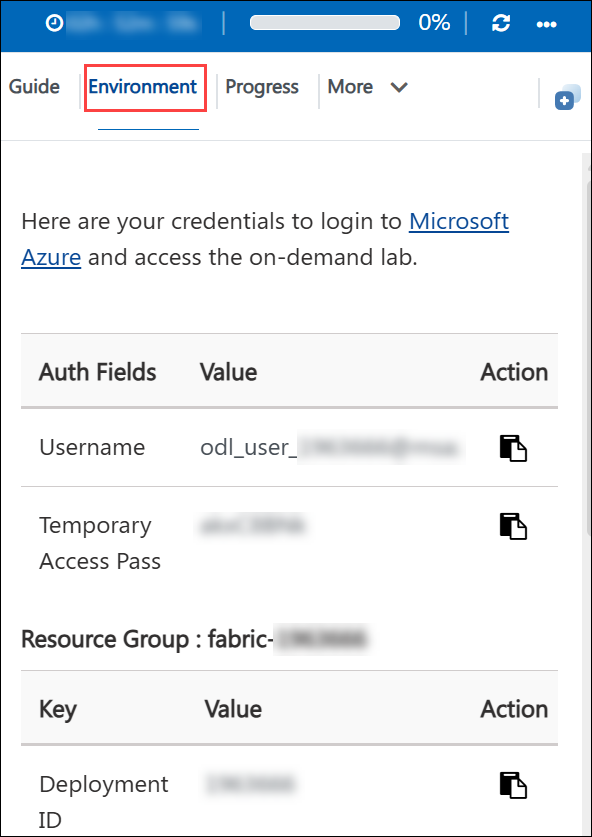
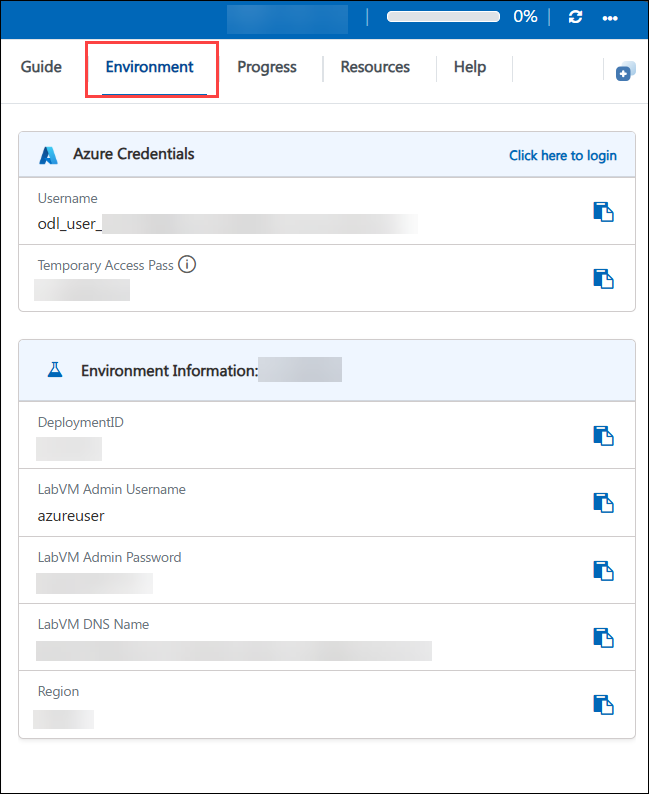
added the getting started page

diff --git a/Instructions/Labs/DP700-Gettingstarted/combined_gettingstarted_page.md b/Instructions/Labs/DP700-Gettingstarted/combined_gettingstarted_page.md
@@ -1,0 +1,105 @@
+# DP-700: Microsoft-Fabric-Data-Engineer Workshop
+
+Welcome to your DP-700: Microsoft-Fabric-Data-Engineer Workshop! We've prepared a seamless environment for you to explore and learn Azure Services. Let's begin by making the most of this experience.
+
+### Overall Estimated Duration: 150 Minutes
+
+In this hands-on lab, you'll gain practical experience working with Microsoft Fabric to analyze, process, and visualize data across various services. You will learn how to create a Fabric workspace, ingest and transform data using pipelines and Dataflows Gen2, and analyze it with Apache Spark. You'll also explore real-time data processing by creating Eventstreams and interacting with eventhouse for real-time insights. By the end of this lab, you'll be equipped with the skills to build end-to-end data workflows and real-time analytics solutions in Microsoft Fabric.
+
+## Objectives
+
+By the end of this lab, you will be able to create a Microsoft Fabric workspace, ingest and transform data using pipelines and Dataflows Gen2, analyze data with Apache Spark, and implement real-time analytics using Eventstreams and eventhouse.
+
+1. **Analyze data with Apache Spark in Fabric**: You will learn how to use Apache Spark within Microsoft Fabric to explore and analyze large datasets. This task will guide you through creating Spark notebooks, running distributed data processing tasks, and performing data transformations to gain meaningful insights.
+
+1. **Ingest data with a pipeline in Microsoft Fabric**: You will learn how to build data pipelines to ingest data from external sources into a lakehouse in Microsoft Fabric. This includes using Apache Spark to apply custom transformations before loading the data for analysis.
+
+1. **Create and use Dataflows (Gen2) in Microsoft Fabric**: You will learn how to create and configure Dataflows (Gen2) to connect to data sources and perform transformations using Power Query Online. This task introduces the core features of Dataflows and demonstrates how they can be used in pipelines or Power BI datasets.
+
+## Pre-requisites
+
+- Basic familiarity with Apache Spark and notebooks (e.g., using PySpark)
+- Understanding of ETL/ELT processes and data transformation concepts
+- Understanding of Kusto Query Language (KQL) and basic SQL for querying event data
+
+## Architecture
+
+In this hands-on lab, the architecture flow includes several essential components.
+
+1. **Analyze data with Apache Spark in Fabric**: Learning how to use Apache Spark within Microsoft Fabric to explore and analyze large-scale datasets. This includes creating notebooks, executing distributed data operations, and performing transformations to uncover insights.
+
+1. **Ingest data with a pipeline in Microsoft Fabric**: Building and configuring data pipelines to ingest data from external sources into a Fabric lakehouse. This process includes applying transformations using Apache Spark and automating data loading for analysis.
+
+1. **Create and use Dataflows (Gen2) in Microsoft Fabric**: Understanding how to use Power Query Online to build Dataflows (Gen2), which connect to data sources, perform transformations, and feed downstream components like pipelines or Power BI reports.pipelines or Power BI datasets.
+
+## Architecture Diagram
+
+ ![](../Images/dp900m1arc.png)
+
+## Explanation of Components
+
+1. **Apache Spark:** Apache Spark is the core, open-source, distributed computing engine powering data engineering and data science workloads, enabling users to analyze and process data at scale within a Lakehouse environment. 
+
+1. **Pipeline:** A pipeline is a logical grouping of activities that orchestrate data ingestion and transformation tasks, allowing users to create and manage complex data workflows through a graphical user interface.
+
+1. **Dataflows (Gen2)**: Its a new generation of dataflows that allow you to connect to various data sources, perform transformations using Power Query Online, and then load the transformed data into various destinations like Lakehouses, Warehouses, or Azure SQL Databases, offering a low-code, cloud-based data preparation experience. 
+
+# Getting Started with lab
+ 
+Welcome to your DP-700: Microsoft Fabric Data Engineer Workshop! We've prepared a seamless environment for you to explore and learn about data engineering concepts and related Microsoft Fabric services. Let's begin by making the most of this experience:
+ 
+## Accessing Your Lab Environment
+ 
+Once you're ready to dive in, your virtual machine and **Guide** will be right at your fingertips within your web browser.
+ 
+![Access Your VM and Lab Guide](../Images2/access-lab.png)
+
+### Virtual Machine & Lab Guide
+ 
+Your virtual machine is your workhorse throughout the workshop. The lab guide is your roadmap to success.
+
+## Exploring Your Lab Resources
+ 
+To get a better understanding of your lab resources and credentials, navigate to the **Environment** tab.
+ 
+![Explore Lab Resources](../Images/envtab.png)
+
+## Lab Guide Zoom In/Zoom Out
+ 
+To adjust the zoom level for the environment page, click the **A↕: 100%** icon located next to the timer in the lab environment.
+
+![](../Images/zoomintab.png)
+
+## Lab Progress
+
+You can use the **Progress** tab to track your progress while working on the lab. A score will be provided after successful validation.
+
+![](../Images/progresstab.png)
+
+## Utilizing the Split Window Feature
+ 
+For convenience, you can open the lab guide in a separate window by selecting the **Split Window** button from the Top right corner.
+ 
+![Use the Split Window Feature](../Images2/splittab.png)
+
+## Managing Your Virtual Machine
+ 
+Feel free to **start, stop, or restart (2)** your virtual machine as needed from the **Resources (1)** tab. Your experience is in your hands!
+ 
+![Manage Your Virtual Machine](../Images2/resources.png)
+
+## Support Contact
+ 
+The CloudLabs support team is available 24/7, 365 days a year, via email and live chat to ensure seamless assistance at any time. We offer dedicated support channels explicitly tailored for both learners and instructors, ensuring that all your needs are promptly and efficiently addressed.
+ 
+Learner Support Contacts:
+ 
+- Email Support: cloudlabs-support@spektrasystems.com
+- Live Chat Support: https://cloudlabs.ai/labs-support
+
+Click on **Next** from the lower right corner to move on to the next page.
+
+   ![Start Your Azure Journey](../Images2/next-page.png)
+
+## Happy Learning !!
+
